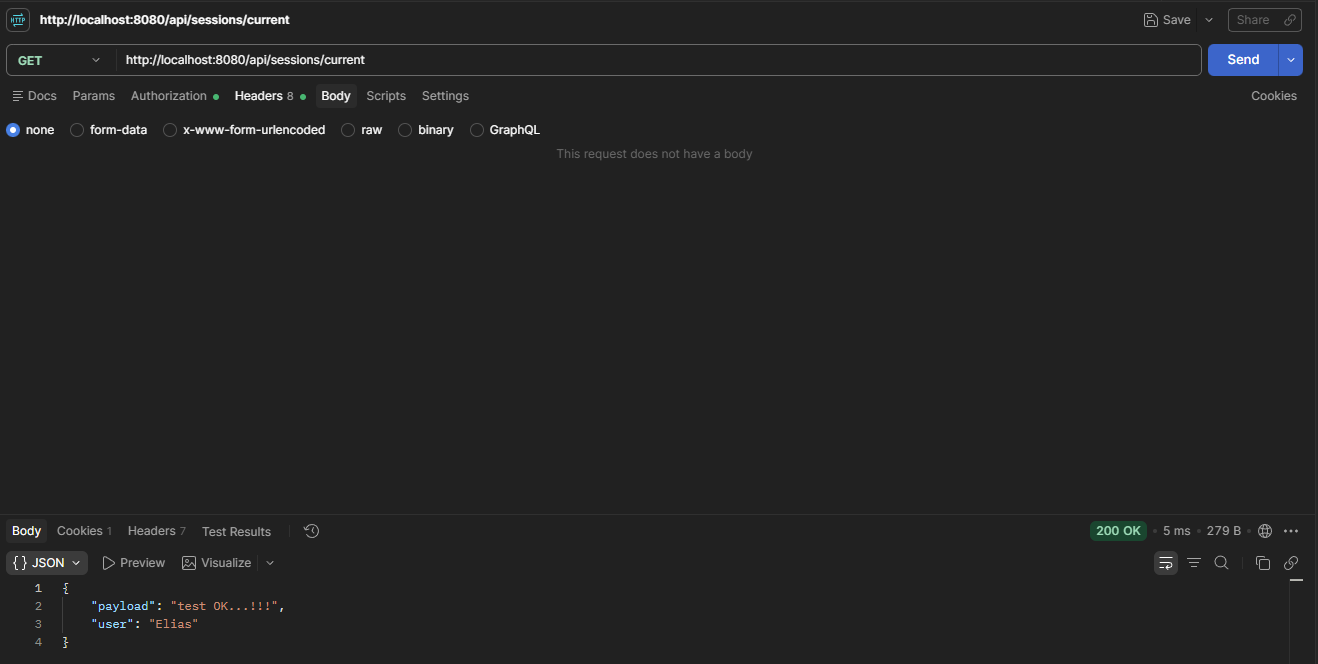
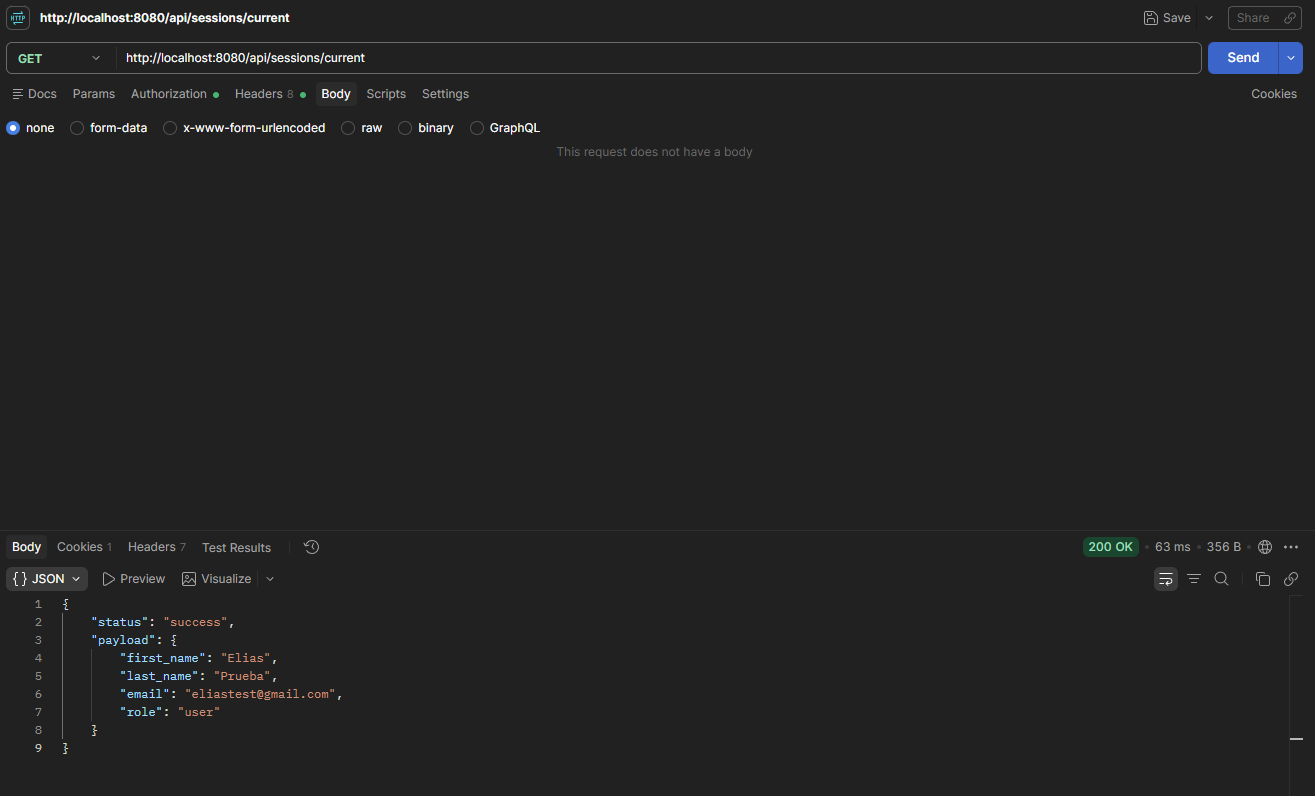
Correccion preEntrega 3

diff --git a/src/controllers/sessions.controller.js b/src/controllers/sessions.controller.js
@@ -41,7 +41,7 @@ export default class SessionsController {
                     name: req.user.first_name,
                     email: req.user.email,
                     role: req.user.role
-                }, token});
+                }});
         } catch (error) {
             console.error(error);
             res.status(error.status || 500).json({
